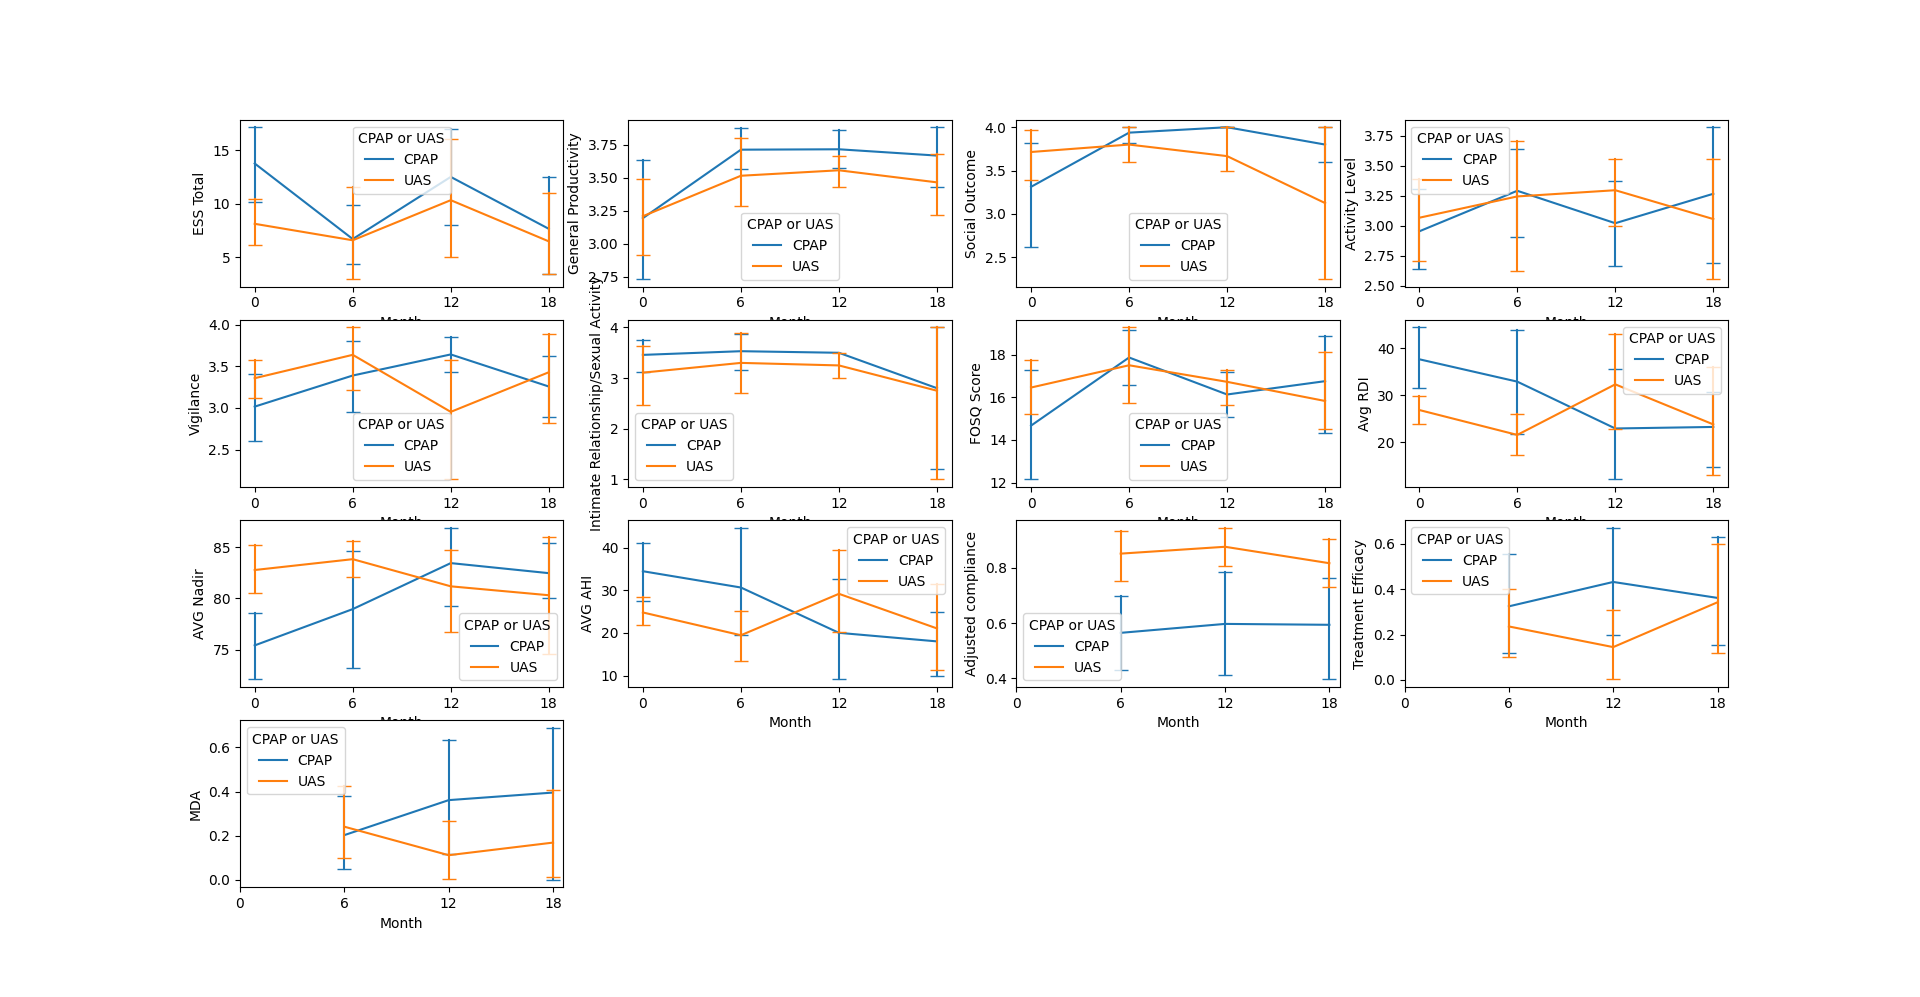
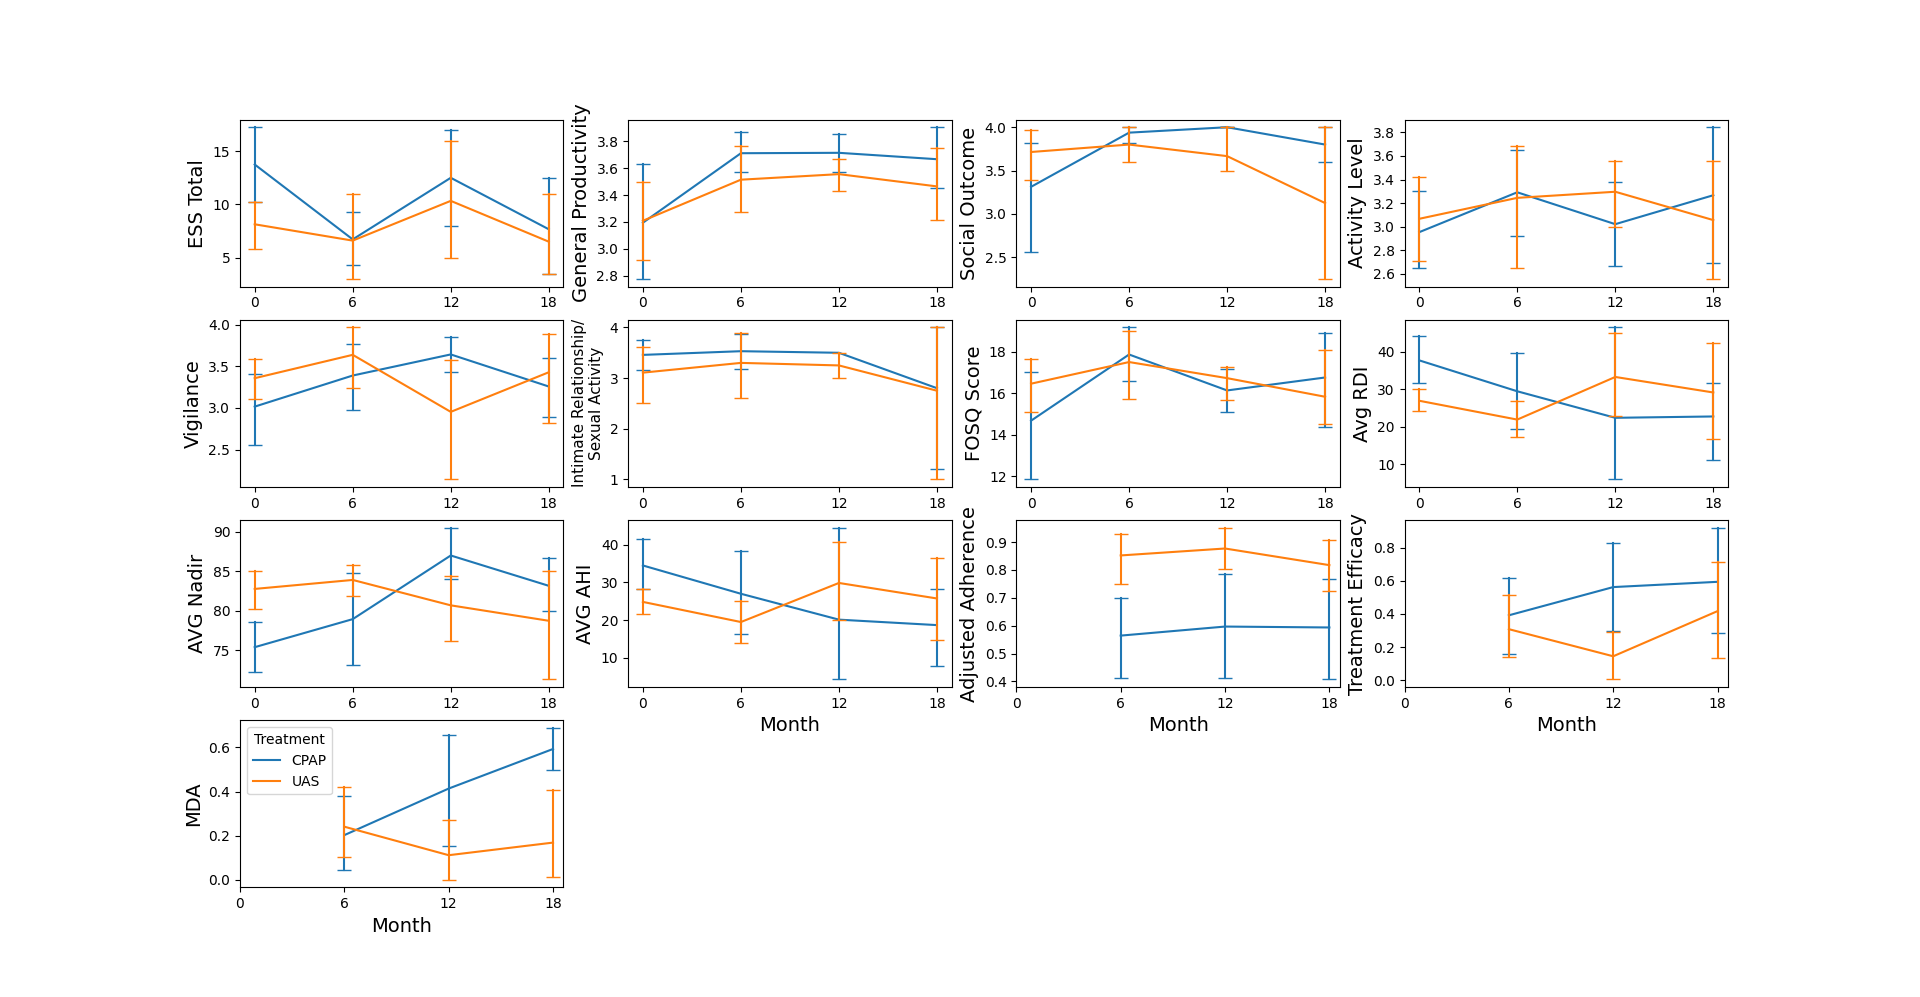
Split WatchPAT preprocessing code into another module and added propensity score matching.

diff --git a/watchpat/watchpat.py b/watchpat/watchpat.py
@@ -1,3 +1,4 @@
+import matplotlib
 import matplotlib.pyplot as plt
 import numpy as np
 import pandas as pd
@@ -5,19 +6,39 @@ import scipy.stats as stats
 import seaborn as sns
 import statsmodels.formula.api as smf
 
+from preprocessing import preprocess_df, propensity_score_match
+
 pd.set_option('display.max_rows', None)
 pd.set_option('display.precision', 4)
 
 data_filename = 'data/WatchPATStudyData.xlsx'
+demographics_filename = 'data/watchpat_with_AGE.xlsx'  # Used for matching
+
+def print_demographics(df: pd.DataFrame, header: str) -> None:
+  print(f'\n{header}:')
+  print(df['Male (0)/ Female (1)'].value_counts(dropna=False))
+  print(df['Race'].value_counts(dropna=False))
 
 def main(df: pd.DataFrame) -> None:
   
   # =========================== BEGIN PREPROCESSING ===========================
-  # Remove rows without treatment assignment (mostly some empty rows)
-  df = df.dropna(subset='CPAP or UAS')
+  df = preprocess_df(df).reset_index()
 
-  # Standardize coding of 'CPAP'
-  df.loc[df['CPAP or UAS'] != 'UAS', 'CPAP or UAS'] = 'CPAP'
+  # Print demographics overall and by group
+  print_demographics(df, header='Overall demographic statistics')
+  print_demographics(df[df['CPAP or UAS'] == 'CPAP'], header='CPAP group demographic statistics')
+  print_demographics(df[df['CPAP or UAS'] == 'UAS'], header='UAS group demographic statistics')
+  print('\n\n\n\n')
+
+  plt.figure()
+  sns.histplot(data=df, x='AVG AHI', hue='CPAP or UAS')
+
+  # Propensity Score Matching
+  # matched_df = propensity_score_match(demographics_filename)
+  # print(matched_df.index)
+  # print(df.index)
+  # df = df.loc[matched_df.index].reset_index()
+  # print(df.index)
 
   # Drop a lot of the columns we don't need for these analyses
   columns_to_drop = [
@@ -45,10 +66,10 @@ def main(df: pd.DataFrame) -> None:
       'AVG Nadir'                             : 'AVG Nadir.0',
       'AVG AHI'                               : 'AVG AHI.0',
       # Some variables were only measured after treatment start; index these 1-4 instead of 0-4
-      'Adjusted compliance '                  : 'Adjusted compliance.1',
-      'Adjusted compliance .1'                : 'Adjusted compliance.2',
-      'Adjusted compliance .2'                : 'Adjusted compliance.3',
-      'Adjusted compliance .3'                : 'Adjusted compliance.4',
+      'Adjusted compliance '                  : 'Adjusted Adherence.1',
+      'Adjusted compliance .1'                : 'Adjusted Adherence.2',
+      'Adjusted compliance .2'                : 'Adjusted Adherence.3',
+      'Adjusted compliance .3'                : 'Adjusted Adherence.4',
       'Treatment Efficacy'                    : 'Treatment Efficacy.1',
       'Treatment Effiacy'                     : 'Treatment Efficacy.2',
       'Treatment Effiacy.1'                   : 'Treatment Efficacy.3',
@@ -63,7 +84,7 @@ def main(df: pd.DataFrame) -> None:
   dependent_variables = [
       'ESS Total', 'General Productivity', 'Social Outcome', 'Activity Level',
       'Vigilance', 'Intimate Relationship/Sexual Activity', 'FOSQ Score',
-      'Avg RDI', 'AVG Nadir', 'AVG AHI', 'Adjusted compliance',
+      'Avg RDI', 'AVG Nadir', 'AVG AHI', 'Adjusted Adherence',
       'Treatment Efficacy', 'MDA',
   ]
   # Since 18 and 24 month timepoints are missing a lot of data,
@@ -77,6 +98,16 @@ def main(df: pd.DataFrame) -> None:
     df[f'{dv}.3'] = (df[f'{dv}.3'] + df[f'{dv}.4'])/2
     df = df.drop(columns=f'{dv}.4')
 
+  # Report a few timepoint-to-timepoint differences before converting the data
+  # from wide to long format
+  # Numbers of patients with normal pretreatment ESS or FOSQ scores
+  df['ESS_baseline_normal'] = (df['ESS Total.0'] <= 10).astype(float)
+  df.loc[df['ESS Total.0'].isnull(), 'ESS_baseline_normal'] = np.nan
+  print(df.groupby(by=['Treatment'])['ESS_baseline_normal'].value_counts(dropna=False))
+  df['FOSQ_baseline_normal'] = (df['FOSQ Score.0'] > 17.9).astype(float)
+  df.loc[df['FOSQ Score.0'].isnull(), 'FOSQ_baseline_normal'] = np.nan
+  print(df.groupby(by=['Treatment'])['FOSQ_baseline_normal'].value_counts(dropna=False))
+
   # Instead of having separate columns for each measurement period, combine
   # measurements of each dependent variable and add a 'Month' column indicating
   # the measurement period
@@ -84,17 +115,27 @@ def main(df: pd.DataFrame) -> None:
                        j='Month', sep='.',).reset_index()
   df['Month'] *= 6  # Convert 6-month measurement periods to months
 
-  # Make a pairs plot just to sanity check everything
-  sns.pairplot(df.drop(columns=['Patient #', 'Month']))
-  plt.gcf().subplots_adjust(bottom=0.05)
+  # # Make a pairs plot just to sanity check everything
+  # sns.pairplot(df.drop(columns=['Patient #', 'Month']))
+  # plt.gcf().subplots_adjust(bottom=0.05)
 
   # Plot all DVs over time
   plt.figure()
   for idx, dv in enumerate(dependent_variables, start=1):
     plt.subplot(4, 4, idx)
-    legend = False if idx > 1 else  'auto'  # Only show legend on the first plot
+    legend = 'auto' if dv == 'MDA' else False # Only show legend on the last plot
     sns.lineplot(data=df, x='Month', y=dv, hue='Treatment', err_style='bars',
                  err_kws={'capsize': 5}, legend=legend)
+    if dv == 'Intimate Relationship/Sexual Activity':
+      plt.ylabel('Intimate Relationship/\nSexual Activity', size=11)
+    else:
+      plt.ylabel(dv, size=14)
+    if idx < 10:
+      plt.xlabel('')
+    else:
+      plt.xlabel('Month', size=14)
+    if idx == 2 or idx == 4:
+      plt.gca().yaxis.set_major_locator(plt.MultipleLocator(0.2))
     plt.xticks([0, 6, 12, 18])
 
   # ========================== END PREPROCESSING ==============================
@@ -108,13 +149,13 @@ def main(df: pd.DataFrame) -> None:
     mixed_effects_model = smf.mixedlm(
         f"Q('{dv}') ~ Month * Treatment",
         data=df_dv,
-        groups=df_dv["Patient #"]
+        groups=df_dv["Patient #"],
     ).fit()
 
     # Interleave coeffs and ps for ease of reading table by eye
     coeffs = mixed_effects_model.fe_params
     ps = mixed_effects_model.pvalues[:-1]  # Omit p-value for Group Var
-    beta_month_plus_interaction = coeffs[2] + coeffs[3]
+    beta_month_plus_interaction = coeffs.iloc[2] + coeffs.iloc[3]
     interleaved = [x for pair in zip(coeffs, ps) for x in pair]
     results.append(
         [mixed_effects_model.nobs] + interleaved + [beta_month_plus_interaction]
@@ -130,7 +171,7 @@ def main(df: pd.DataFrame) -> None:
       # rate of change per month for the UAS group.
       'beta_Month+Interaction',
   ]
-  print(pd.DataFrame(results, columns=column_names, index=dependent_variables))
+  print(pd.DataFrame(results, columns=column_names, index=dependent_variables).drop(columns=['beta_Intercept', 'p_Intercept']))
 
   # TODO: Figure out a good way to visualize the mixed effects model
   # for idx, dv in enumerate(dependent_variables, start=1):
@@ -154,7 +195,7 @@ def main(df: pd.DataFrame) -> None:
     for T in [0, 6, 12, 18]:
 
       # Skip variables not measured at time 0
-      if (T == 0) and (dv in ['Adjusted compliance', 'Treatment Efficacy', 'MDA']):
+      if (T == 0) and (dv in ['Adjusted Adherence', 'Treatment Efficacy', 'MDA']):
         row.extend([0, 0, float('nan'), ''])
         continue
 
@@ -177,10 +218,13 @@ def main(df: pd.DataFrame) -> None:
 
   # =================== END PAIRWISE COMPARISONS ======================
 
+  df['MDA_gt_0.4'] = (df['MDA'] >= 0.4).astype(float)
+  df['MDA_gt_0.4'][df['MDA'].isnull()] = np.nan
+  print(df.groupby(by=['Month', 'Treatment'])['MDA'].mean())
+  print(df.groupby(by=['Month', 'Treatment'])['MDA_gt_0.4'].value_counts(dropna=False))
   plt.show()
 
 if __name__ == "__main__":
   # Read in just the sheet we need from the Excel file
-  sheet_name = 'Active'  # or 'All'
-  main(pd.read_excel(data_filename, sheet_name=sheet_name))
-
+  sheet_name = 'All'  # or 'Active'
+  main(pd.read_excel(data_filename, sheet_name=sheet_name, index_col='Patient #'))

diff --git a/watchpat/preprocessing.py b/watchpat/preprocessing.py
@@ -1,0 +1,80 @@
+import matplotlib
+import matplotlib.pyplot as plt
+import numpy as np
+import pandas as pd
+import scipy.stats as stats
+import seaborn as sns
+import statsmodels.formula.api as smf
+from sklearn.linear_model import LogisticRegression
+from sklearn.neighbors import NearestNeighbors
+
+pd.set_option('display.max_rows', None)
+pd.set_option('display.precision', 4)
+
+def preprocess_df(df: pd.DataFrame) -> pd.DataFrame:
+
+  # Remove rows without treatment assignment (mostly some empty rows)
+  df = df.dropna(subset='CPAP or UAS')
+
+  # Standardize coding of 'CPAP'
+  df.loc[df['CPAP or UAS'] != 'UAS', 'CPAP or UAS'] = 'CPAP'
+
+  # Fix an inconsistency in race coding
+  df.loc[df['Race'] == 'White or Caucasian', 'Race'] = 'White/Caucasian'
+
+  return df
+
+def propensity_score_match(demographics_filename: str) -> pd.DataFrame:
+  
+  # Read in just the data we need from the Excel file
+  usecols=[
+      # Patient ID
+      'Patient #',
+      # Demographic matching variables
+      'Age at Intervention Start', 'Male (0)/ Female (1)', 'Race',
+      # Baseline symptom matching variables
+      # 'Avg RDI', 'AVG Nadir', 
+      'AVG AHI',
+      # Treatment variable
+      'CPAP or UAS',  
+  ]
+  df = pd.read_excel(demographics_filename, usecols=usecols, index_col='Patient #')
+  
+  df = preprocess_df(df)
+
+  # Mean imputation for a small number of missing baseline AHIs
+  df['AVG AHI'] = df['AVG AHI'].fillna(value=df['AVG AHI'].mean())
+
+  df = df.rename(columns={
+      'Age at Intervention Start': 'Age',
+      'Male (0)/ Female (1)': 'IsFemale',
+      'AVG AHI': 'Baseline AHI',
+      'CPAP or UAS' : 'Treatment',
+  })
+
+  # Compute propensity scores
+  matching_variables = ['Age', 'IsFemale', 'Baseline AHI']
+  X = df[matching_variables]
+  y = (df['Treatment'] == 'UAS')
+  log_reg = LogisticRegression()
+  log_reg.fit(X, y)
+  df['Propensity Score'] = log_reg.predict_proba(X)[:, 1]
+
+  # Split control and treatment groups
+  CPAP_df = df[df['Treatment'] == 'CPAP']
+  UAS_df = df[df['Treatment'] == 'UAS']
+
+  # Nearest neighbor matching
+  nn = NearestNeighbors(n_neighbors=1)
+  nn.fit(CPAP_df[['Propensity Score']])
+  _, indices = nn.kneighbors(UAS_df[['Propensity Score']])
+  CPAP_df = CPAP_df.iloc[indices.flatten()]
+
+  # Combine matched control and treatment groups
+  matched_df = pd.concat([CPAP_df, UAS_df])
+
+  return matched_df
+
+
+if __name__ == "__main__":
+  print(propensity_score_match('data/watchpat_with_AGE.xlsx'))